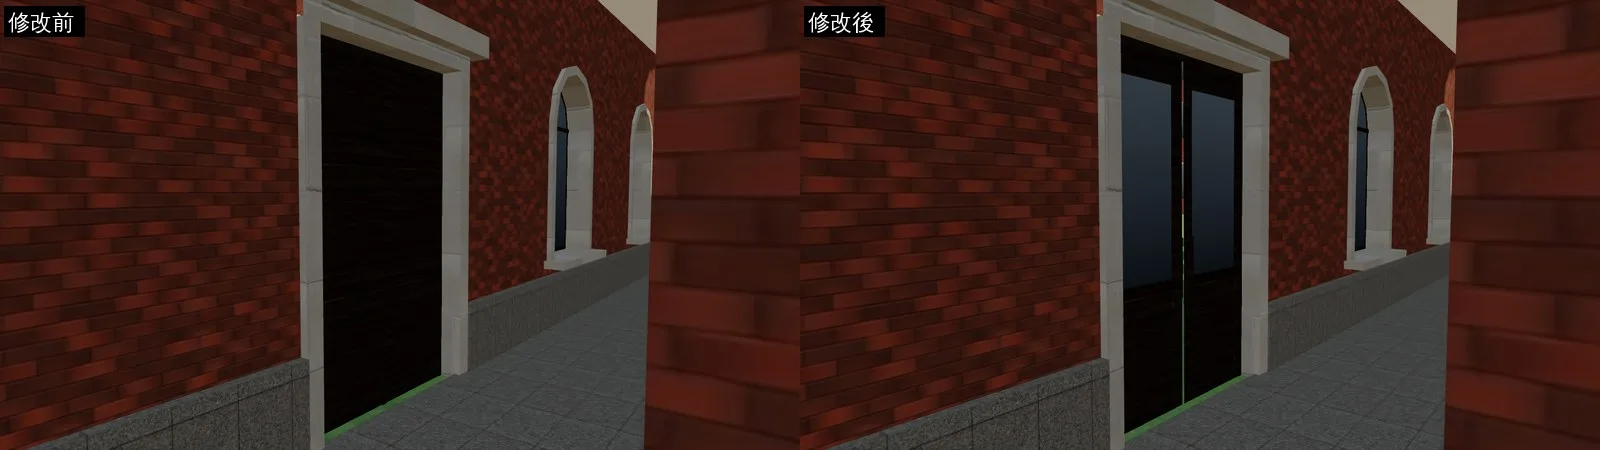
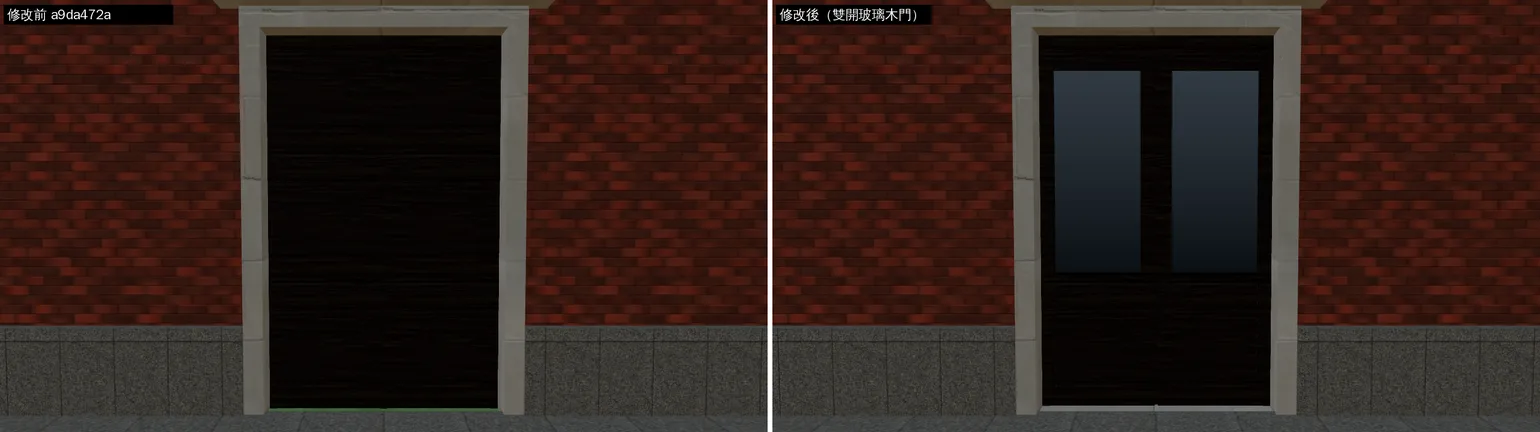
ART-ECON-3D-GAP-1021 交件：四棟拱廊大門＋博雅東側一樓——總圖大門正面的遊戲內前後對照（15:00、20:00，換掉補漏光之前的斜角照片）、說明改 READY_FOR_ART_REVIEW、outbox 加一筆
Claude-Session: https://claude.ai/code/session_01AC1WVgJSmoJK1uRsPK2Zn1

diff --git a/docs/art-rebuild/second_ai/test_shots/campus_doors_1021/README.md b/docs/art-rebuild/second_ai/test_shots/campus_doors_1021/README.md
@@ -1,6 +1,6 @@
 # 四棟拱廊大門＋博雅東側一樓（ART-ECON-3D-GAP-1021）
 
-帳號 A 的 LAWWW2，2026-10-21 21:0x UTC。狀態：**WIP**——總圖門的遊戲內對照已看過；文學院、行政、校史館的正面鏡頭和博雅東側在重拍（佇列 j8、j9），拍完補上才交件。
+帳號 A 的 LAWWW2，2026-10-21 21:0x～23:3x UTC。狀態：**READY_FOR_ART_REVIEW**（交件 23:3x）——四棟大門都有正面的遊戲內前後對照（15:00、20:00），博雅東側有斜看的對照；使用者看過才算 ART_APPROVED。
 
 ## 問題
 
@@ -60,17 +60,9 @@
 ## 遊戲內前後對照
 
 - 環境：`tools/shots/scene_shot.py`，1280×720，Playwright＋SwiftShader，**不是 iPhone**。
-- 修改前：開發分支 `a9da472a`；修改後：同一個工作樹換上新的 GLB。
+- 修改前：開發分支 `a9da472a`；修改後：同一個工作樹換上新的 GLB（大門 `30519553`、博雅 `0343b994`）。
 - 拍攝設定：`shots_econfix2_*.json`（第一批）、`shots_doors2_*.json`（正面重拍）。
 - 每張圖左邊是修改前、右邊是修改後。
-
-**總圖門 15:00**：全黑的木板變成雙開玻璃木門。這一張是補漏光之前的版本，中間還看得到一條細線。
-
-![](cmp_library_door_15.webp)
-
-**總圖門 20:00**：晚上玻璃透出門廳的燈。
-
-![](cmp_library_door_20.webp)
 
 **文學院、行政大樓、校史館**：第一批鏡頭從斜角拍，被拱廊的柱子擋住，看不到門。改成站在門廊中間那一跨正面拍，15:00、20:00 各一張（重拍 j9，22:45～23:4x；`$SP/doors2`）。
 
@@ -98,7 +90,15 @@
 
 ![](cmp_hist_door_20.webp)
 
-（總圖正面：拍完補上）
+**總圖 15:00**：修改前是一整塊深色木板，門底下露出一條綠線（門洞後面是空的，看得到底下的草地）；修改後是雙開玻璃木門、門底有石材門檻，綠線沒了，中間的對開縫後面是暗的。
+
+![](cmp_library_door_15.webp)
+
+**總圖 20:00**：玻璃透出暖光。左邊那片玻璃上的白點是附近燈的反光。
+
+![](cmp_library_door_20.webp)
+
+（第一批從斜角拍的總圖門照片（`shots_econfix2_*.json`、補漏光之前的版本）已經換成這兩張正面的。）
 
 **博雅東側**（重拍 j8，22:16～22:40；`$SP/boya2`）：從小椰林道那一側斜看東立面一樓，15:00、20:00。
 
@@ -114,7 +114,7 @@
 ## 還不到的地方（誠實寫）
 
 - 門打不開，也走不進去。這幾棟目前都是外觀，門只是畫面上的改善。
-- 文學院、行政、校史館還沒有遊戲內的前後對照（正面重拍排在佇列 j9）。
+- 門的木作很深：在拱廊最深的陰影裡（文學院），下半的凹板、門把幾乎看不出來；陰影淺一點的地方（行政大樓）才看得到。真的老建築的門也是深色木頭，這一版不調亮（木作和窗框共用一個材質，調亮會連整棟的窗框一起變）。
 - 博雅一樓的玻璃白天看起來偏黑：遊戲沒有環境貼圖，玻璃只剩一點天空的反光；樓上原本的窗也是這樣。要更像真的大廳，得在玻璃後面放室內的景（像 Café 的窗內店面），這一版沒做。
 - 真機沒看過。
 
